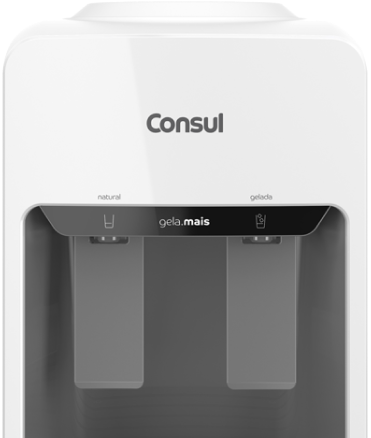
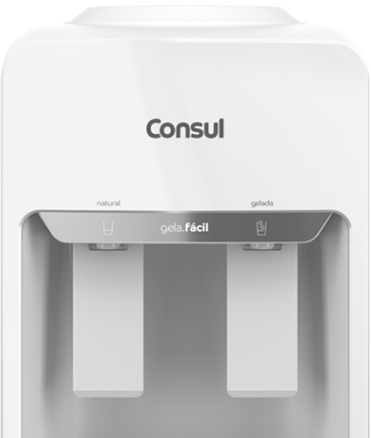
Replaced image gela-facil--form, fixed link videos,  and some css fixes according to QA

diff --git a/src/Pages/landing-novos-bebedouros/styles/css/lp-main.css b/src/Pages/landing-novos-bebedouros/styles/css/lp-main.css
@@ -1,1 +1,1 @@
[2 lines of base64/hex data omitted]

diff --git a/src/Pages/landing-novos-bebedouros/styles/scss/lp-main.scss b/src/Pages/landing-novos-bebedouros/styles/scss/lp-main.scss
@@ -24,11 +24,13 @@ ul {
   color: #fff;
   background-color: transparent;
   border: 1px solid #fff;
-  padding: 12px 38px;
+  padding: 12px 53px;
   border-radius: 100px;
   text-decoration: none;
   text-align: center;
   display: inline-block;
+  font-size: 14px;
+  line-height: 1;
 
   &--outline-light {
     transition: 0.3s all ease-in-out;
@@ -105,6 +107,10 @@ ul {
   &:focus {
     outline: none;
   }
+
+  @media screen and (min-width: 1024px) {
+    min-width: 180px;
+  }
 }
 
 .main-title {
@@ -133,6 +139,7 @@ ul {
   &__title {
     font-size: 3.25em;
     font-weight: normal;
+    margin-bottom: 0;
   }
 
   &__text {
@@ -210,7 +217,8 @@ ul {
     font-style: normal;
     font-weight: 500;
     font-size: 2em;
-    line-height: 1.5;
+    line-height: 1.2;
+    margin-bottom: 0;
   }
 
   &__text {
@@ -250,6 +258,13 @@ ul {
   font-family: "Consul";
   overflow: hidden;
 
+  @media screen and (max-width: 1023px) {
+    margin-top: 55px;
+  }
+  .container {
+    padding: 0 15px !important;
+  }
+
   nav {
     flex-grow: 1;
     display: flex;
@@ -270,6 +285,19 @@ ul {
     }
   }
 
+  .cta.cta--green {
+    margin: 10px 0;
+    font-size: 14px;
+    padding: 11px 35px 12px 41px;
+    line-height: 1.1;
+    min-width: auto;
+
+    @media screen and (max-width: 1023px) {
+      padding: 7px 15px 9px 20px;
+      min-width: 100px;
+    }
+  }
+
   ul {
     display: inline-flex;
     list-style-type: none;
@@ -277,12 +305,8 @@ ul {
     justify-content: space-between;
 
     li {
-      padding: 20px;
+      padding: 0 20px;
     }
-  }
-
-  .cta {
-    margin: 10px 0;
   }
 
   @media screen and (max-width: 768px) {
@@ -340,6 +364,10 @@ ul {
     animation: fadeIn 0.5s;
     top: 0;
     z-index: 10;
+
+    @media screen and (max-width: 1023px) {
+      top: 85px;
+    }
   }
 
   &.inactive {
@@ -413,6 +441,8 @@ $main-intro--bottom: 80px;
         font-size: 38px;
         font-weight: bold;
         margin-top: 10px;
+        margin-bottom: 0;
+        line-height: 1.3;
 
         @media (max-width: 640px) {
           font-size: 28px;
@@ -422,6 +452,7 @@ $main-intro--bottom: 80px;
       &--subtitle {
         text-transform: uppercase;
         font-size: 18px;
+        margin-bottom: 0;
       }
 
       &--info {
@@ -747,6 +778,10 @@ $main-intro--bottom: 80px;
   padding: 30px 15px;
   overflow: hidden;
 
+  .cta-product-mobile {
+    margin: 20px 0;
+  }
+
   .container {
     padding: 0 15px !important;
   }
@@ -793,6 +828,10 @@ $main-intro--bottom: 80px;
   background-color: $color_secundary_blue;
   padding: 30px 15px;
   overflow: hidden;
+
+  .cta-product-mobile {
+    margin: 20px 0;
+  }
 
   .container {
     padding: 0 15px !important;
@@ -1098,6 +1137,7 @@ $main-intro--bottom: 80px;
         .terms-and-conditions {
           a {
             color: #fff;
+            text-decoration: underline;
           }
 
           .label-container {
@@ -1152,6 +1192,10 @@ $main-intro--bottom: 80px;
               display: none;
             }
           }
+        }
+
+        .feedback-msg {
+          font-size: 14px;
         }
       }
     }
@@ -1224,12 +1268,17 @@ $main-intro--bottom: 80px;
     img {
       width: 100%;
       display: block;
+      transition: 0.3s all ease-in-out;
+      cursor: pointer;
+      &:hover {
+        transform: scale(1.05);
+      }
     }
 
     .main-title {
       margin-right: 35px;
       max-width: 335px;
-      margin: auto;
+      // margin: auto;
     }
   }
 
@@ -1303,7 +1352,7 @@ $main-intro--bottom: 80px;
       .main-title {
         font-size: 24px;
         text-align: center;
-        padding: 0 40px;
+        padding: 0 20px;
       }
 
       .ambiente-feature {

diff --git a/src/Pages/landing-novos-bebedouros/0-consul-landing-novos-bebedouros.html b/src/Pages/landing-novos-bebedouros/0-consul-landing-novos-bebedouros.html
@@ -432,7 +432,9 @@
 						src="/arquivos/gela-facil_semgalao-perspectiva.png"
 						alt=""
 					/>
-
+					<div class="cta-product-mobile d-md-none text-center">
+						<a href="#eu-quero" class="cta cta--gray">Eu quero</a>
+					</div>
 					<div
 						class="feature-animation feature-animation--gela-facil"
 					>
@@ -629,6 +631,10 @@
 						src="/arquivos/gela-mais---1.png"
 						alt=""
 					/>
+
+					<div class="cta-product-mobile d-md-none text-center">
+						<a href="#eu-quero" class="cta cta--gray">Eu quero</a>
+					</div>
 
 					<div class="feature-animation feature-animation--gela-mais">
 						<div class="info-feature">
@@ -1097,7 +1103,7 @@
 						id="main-video-frame"
 						width="100%"
 						height="650"
-						src="https://www.youtube.com/embed/8yn6rzyQnKU"
+						src="https://www.youtube.com/embed/qsaHjbh8RT4"
 						frameborder="0"
 						allow="accelerometer; autoplay; encrypted-media; gyroscope; picture-in-picture"
 						allowfullscreen="allowfullscreen"
@@ -1116,7 +1122,7 @@
 						class="youtube-iframe"
 						width="100%"
 						height="650"
-						src="https://www.youtube.com/embed/OqyPmPHObRI"
+						src="https://www.youtube.com/embed/xr50lsQVCa0"
 						frameborder="0"
 						allow="accelerometer; autoplay; encrypted-media; gyroscope; picture-in-picture"
 						allowfullscreen="allowfullscreen"
@@ -1135,7 +1141,7 @@
 						class="youtube-iframe"
 						width="100%"
 						height="650"
-						src="https://www.youtube.com/embed/OqyPmPHObRI"
+						src="https://www.youtube.com/embed/Mu4c0y4Fzmg"
 						frameborder="0"
 						allow="accelerometer; autoplay; encrypted-media; gyroscope; picture-in-picture"
 						allowfullscreen="allowfullscreen"
